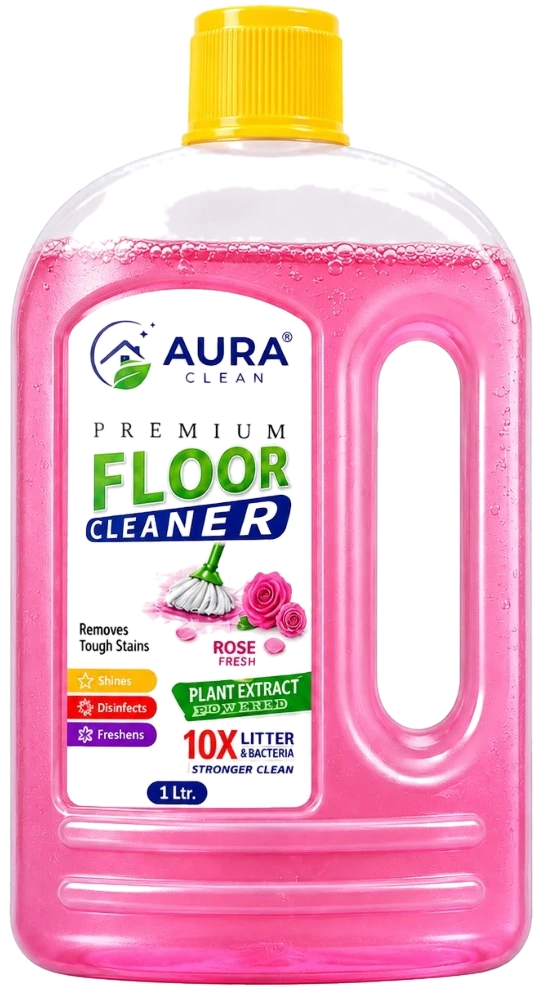
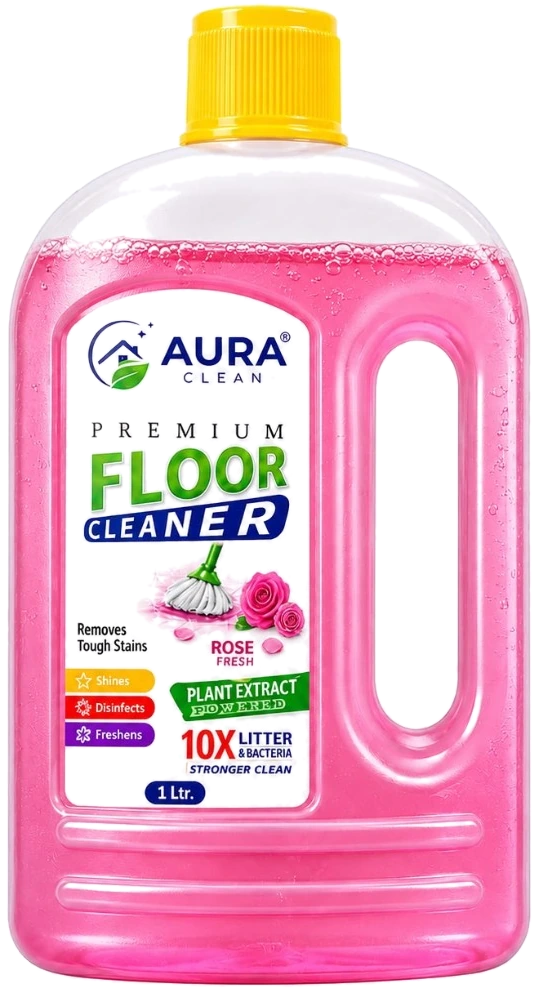
Update floor cleaner Rose flavour pack photo.
Replace the Rose Fresh product image used when that flavour is selected in the catalog.

diff --git a/src/data/products.ts b/src/data/products.ts
@@ -134,7 +134,7 @@ export const PRODUCTS: Product[] = [
       {
         id: "rose",
         label: "Rose",
-        src: "/product-floor-rose.webp?v=4",
+        src: "/product-floor-rose.webp?v=5",
         tone: "#e85a9b",
       },
     ],
